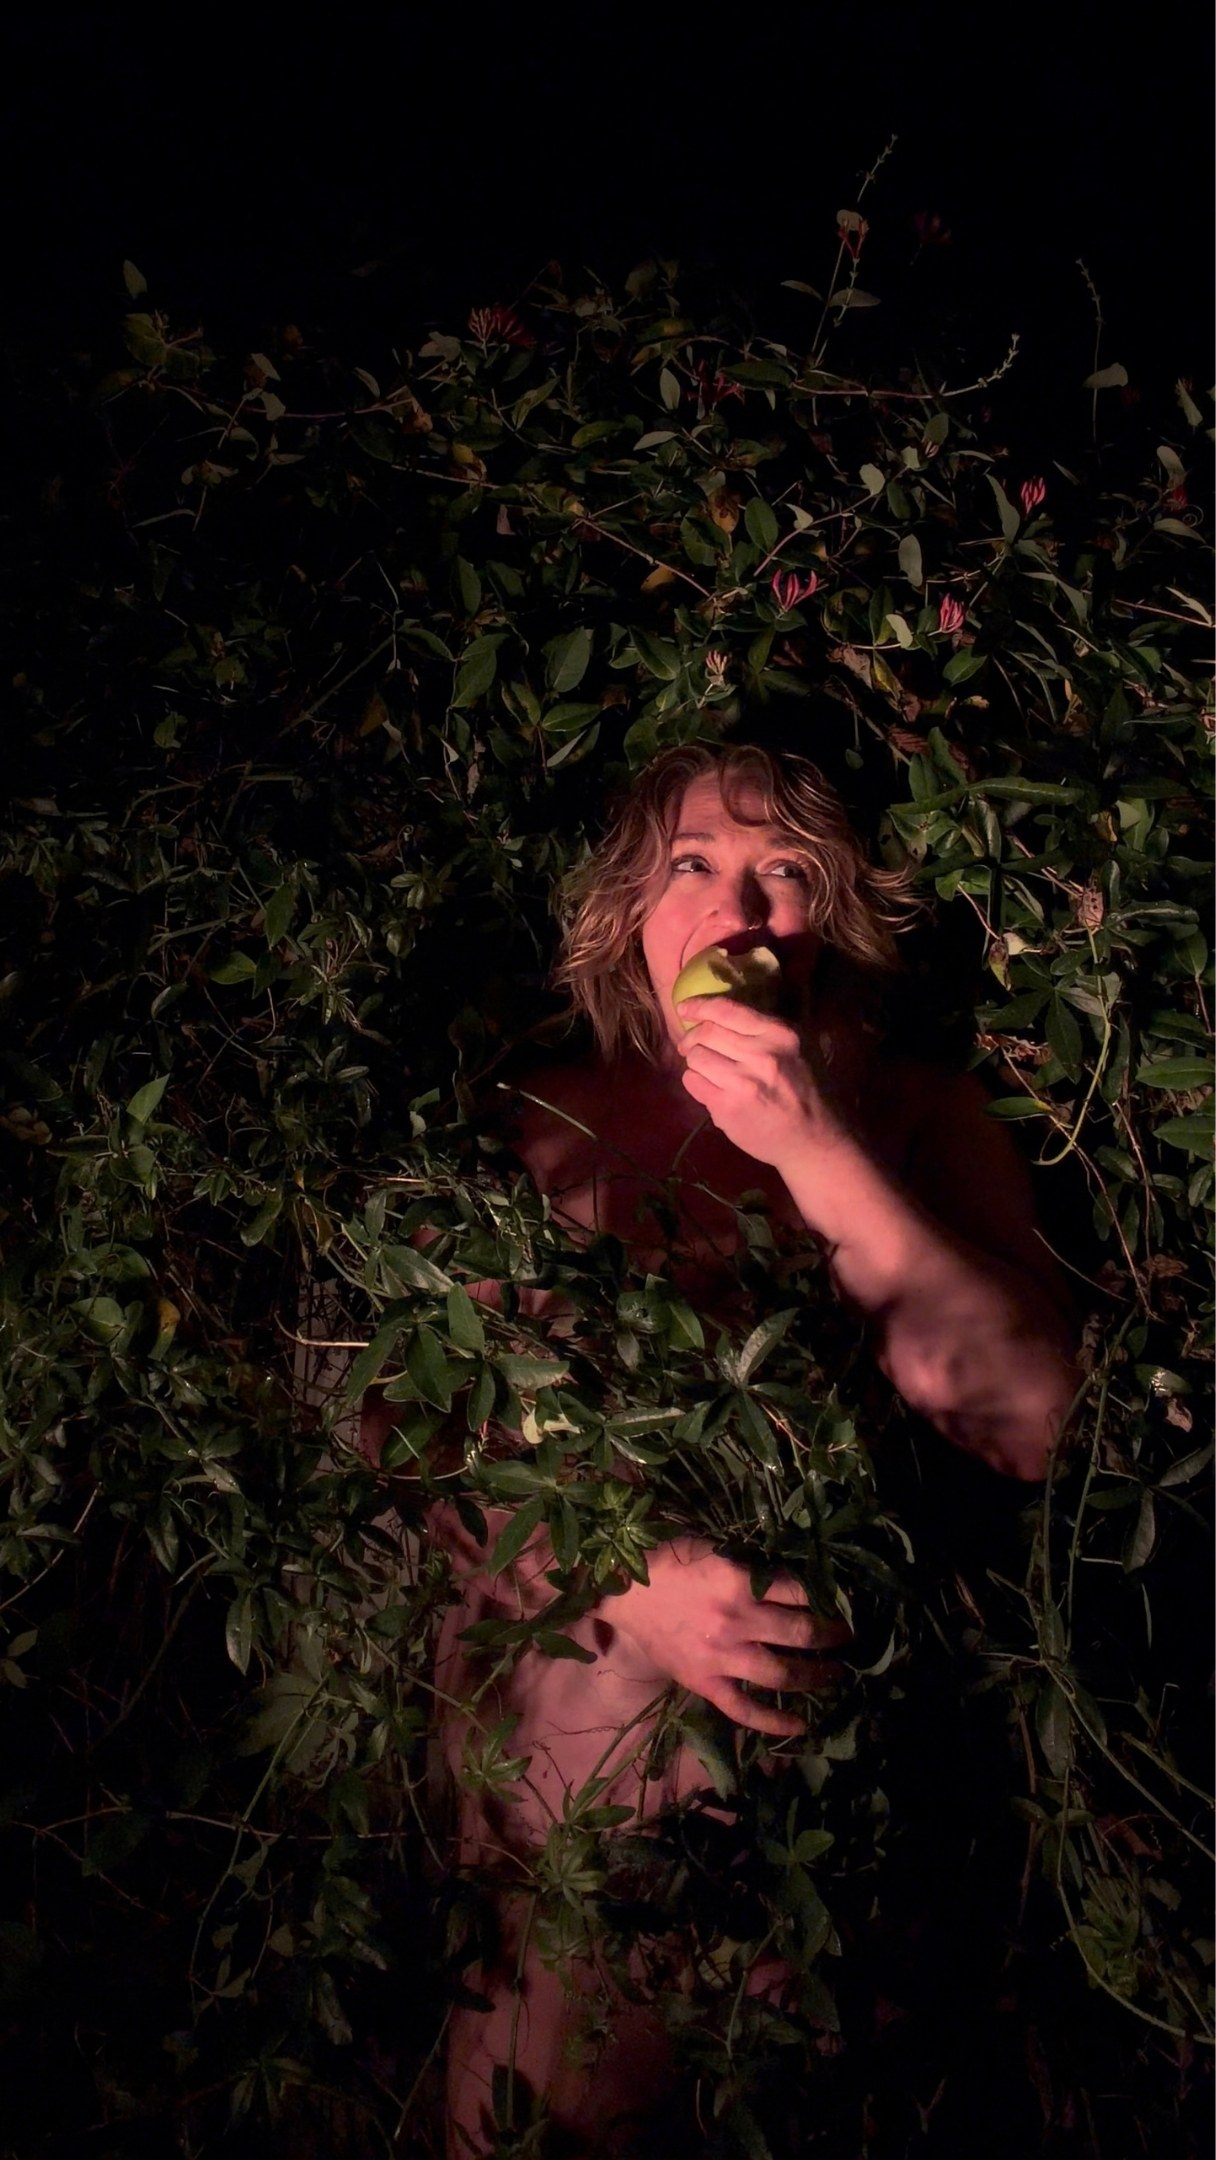
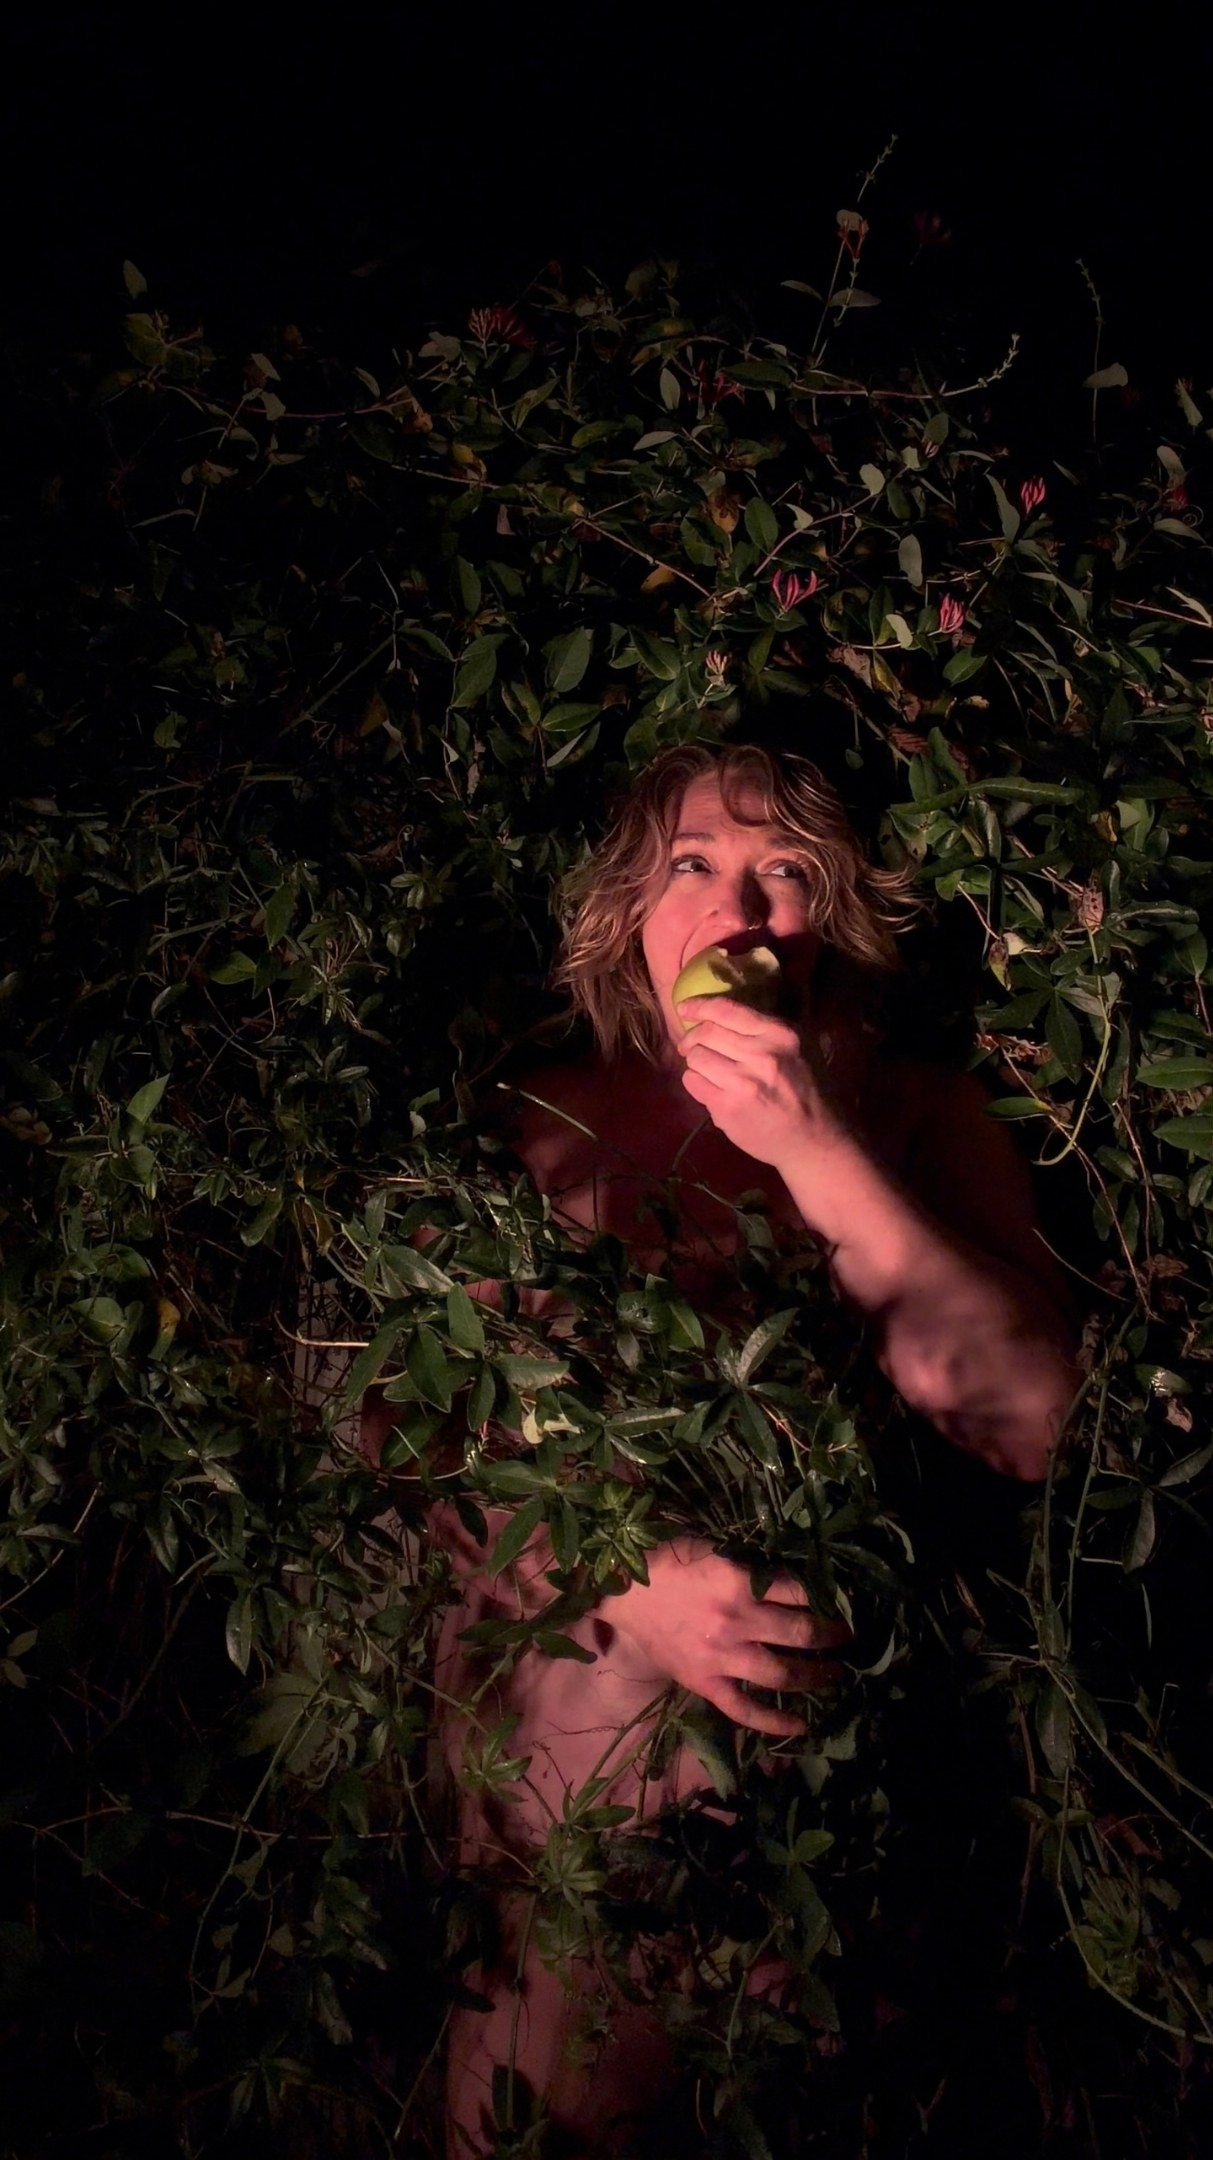
Fear Not: trim faint light edges (02 bottom, 04 right)
Claude-Session: https://claude.ai/code/session_017CfwZAVzcE1XJqFP6CWfhU

diff --git a/lib/image-sizes.ts b/lib/image-sizes.ts
@@ -148,9 +148,9 @@ export const imageSizes: Record<string, [number, number]> = {
   "/art/fear-not/10.webp": [1400, 787],
   "/art/fear-not/11.webp": [1360, 1020],
   "/art/fear-not/fear-not-01.jpg": [1216, 2160],
-  "/art/fear-not/fear-not-02.jpg": [1216, 2160],
+  "/art/fear-not/fear-not-02.jpg": [1216, 2157],
   "/art/fear-not/fear-not-03.jpg": [1216, 2160],
-  "/art/fear-not/fear-not-04.jpg": [1216, 2160],
+  "/art/fear-not/fear-not-04.jpg": [1213, 2160],
   "/art/fear-not/fear-not-05.jpg": [1216, 2160],
   "/art/maria/01.webp": [1125, 1500],
   "/art/maria/02.webp": [1125, 1500],
